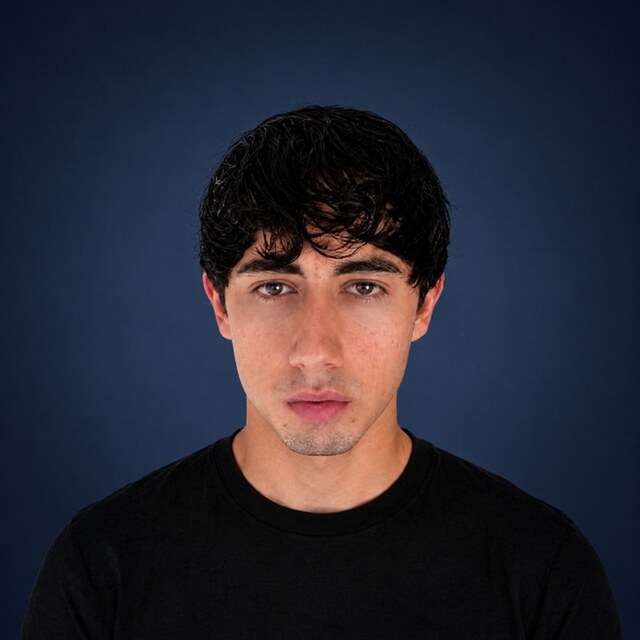
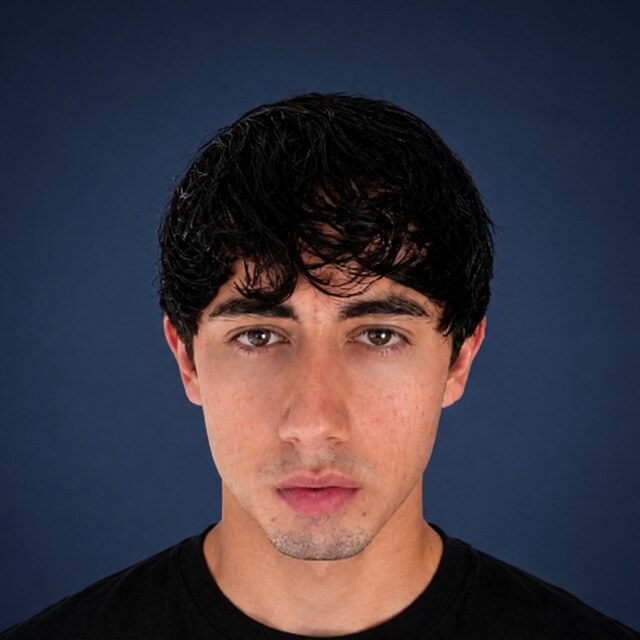
feat: retrato reencuadrado, anti-cache en CSS/JS y tarjeta de previsualizacion
El retrato y el logo ya median lo mismo (132 px), pero la cara ocupaba una
fraccion pequena de su marco mientras la rana llenaba el suyo, asi que
parecian de tamanos distintos. El retrato se reencuadra sobre la cara para
que ambos pesen visualmente igual.

CSS y JS se sirven con ?v=<hora del build>: un cambio de estilos deja de
quedarse escondido tras la cache del navegador.

Se anade assets/img/brand/og.png (1200x630) y se declara como imagen por
defecto, de modo que al compartir cualquier URL del sitio en LinkedIn, X o
Slack salga una tarjeta con el nombre, el alias y las dos imagenes en vez de
un enlace pelado.

diff --git a/_includes/head.html b/_includes/head.html
@@ -9,7 +9,8 @@
 <link rel="preconnect" href="https://fonts.googleapis.com">
 <link rel="preconnect" href="https://fonts.gstatic.com" crossorigin>
 <link rel="stylesheet" href="https://fonts.googleapis.com/css2?family=Inter:wght@400;500;600;700&family=JetBrains+Mono:wght@400;500;600&display=swap">
-<link rel="stylesheet" href="{{ '/assets/css/main.css' | relative_url }}">
+{%- comment -%} ?v= cambia en cada build: evita que el navegador sirva CSS viejo {%- endcomment -%}
+<link rel="stylesheet" href="{{ '/assets/css/main.css' | relative_url }}?v={{ site.time | date: '%s' }}">
 
 <script>
   // Aplica el tema guardado antes de pintar, para que no haya parpadeo.

diff --git a/_layouts/default.html b/_layouts/default.html
@@ -22,6 +22,6 @@
     {{ content }}
   </main>
   {% include footer.html %}
-  <script src="{{ '/assets/js/site.js' | relative_url }}" defer></script>
+  <script src="{{ '/assets/js/site.js' | relative_url }}?v={{ site.time | date: '%s' }}" defer></script>
 </body>
 </html>
